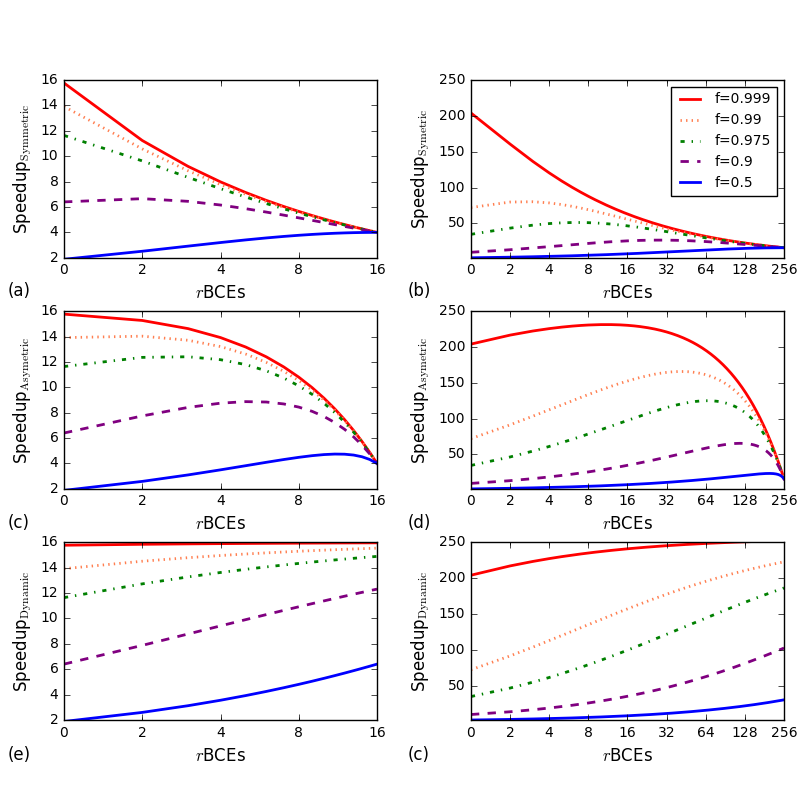
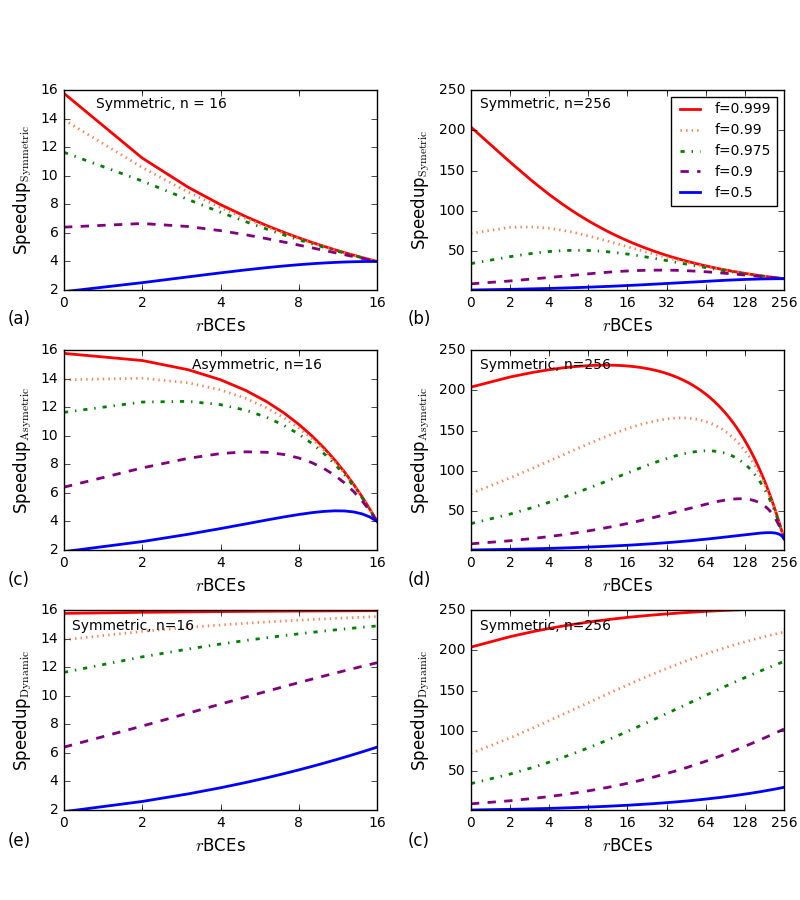
Add subplot title text
add subplot title text (use plt.text() function indead of ax.text()
function

diff --git a/python/amdahl-200807/figure2.py b/python/amdahl-200807/figure2.py
@@ -47,7 +47,7 @@ f = [0.999, 0.99, 0.975, 0.9, 0.5]
 
 fig, axs = plt.subplots(3,2)
 fig.subplots_adjust(left=0.08,right=0.98,wspace=0.3,hspace=0.3)
-fig.set_size_inches(8,8)
+fig.set_size_inches(8,9)
 
 # rBCEs, the number of total BCEs
 x = np.linspace(1, 16, num=16, endpoint=True)
@@ -74,7 +74,8 @@ ax.set_yticks([2,4,6,8,10,12,14,16])
 ax.set_yticklabels(['2','4','6','8','10','12','14','16'],fontsize='small')
 ax.set_xlabel(r'$r$BCEs')
 ax.set_ylabel(r'Speedup$_\mathrm{Symmetric}$')
-fig.text(0.01,0.63,'(a)')
+fig.text(0.12,0.88,'Symmetric, n = 16',fontsize='small')
+fig.text(0.01,0.64,'(a)')
 
 # rBCEs, the number of total BCEs
 x = np.linspace(1, 256, num=256, endpoint=True)
@@ -102,7 +103,8 @@ ax.set_yticks([50,100,150,200,250])
 ax.set_yticklabels(['50','100','150','200','250'],fontsize='small')
 ax.set_xlabel(r'$r$BCEs')
 ax.set_ylabel(r'Speedup$_\mathrm{Symetric}$')
-fig.text(0.51,0.63,'(b)')
+fig.text(0.60,0.88,'Symmetric, n=256',fontsize='small')
+fig.text(0.51,0.64,'(b)')
 
 # rBCEs, the number of total BCEs
 x = np.linspace(1, 16, num=16, endpoint=True)
@@ -129,7 +131,8 @@ ax.set_yticks([2,4,6,8,10,12,14,16])
 ax.set_yticklabels(['2','4','6','8','10','12','14','16'],fontsize='small')
 ax.set_xlabel(r'$r$BCEs')
 ax.set_ylabel(r'Speedup$_\mathrm{Asymetric}$')
-fig.text(0.01,0.34,'(c)')
+fig.text(0.24,0.59,'Asymmetric, n=16',fontsize='small')
+fig.text(0.01,0.35,'(c)')
 
 # rBCEs, the number of total BCEs
 x = np.linspace(1, 256, num=256, endpoint=True)
@@ -157,7 +160,8 @@ ax.set_yticks([50,100,150,200,250])
 ax.set_yticklabels(['50','100','150','200','250'],fontsize='small')
 ax.set_xlabel(r'$r$BCEs')
 ax.set_ylabel(r'Speedup$_\mathrm{Asymetric}$')
-fig.text(0.51,0.34,'(d)')
+fig.text(0.60,0.59,'Symmetric, n=256',fontsize='small')
+fig.text(0.51,0.35,'(d)')
 
 # rBCEs, the number of total BCEs
 x = np.linspace(1, 16, num=16, endpoint=True)
@@ -184,7 +188,8 @@ ax.set_yticks([2,4,6,8,10,12,14,16])
 ax.set_yticklabels(['2','4','6','8','10','12','14','16'],fontsize='small')
 ax.set_xlabel(r'$r$BCEs')
 ax.set_ylabel(r'Speedup$_\mathrm{Dynamic}$')
-fig.text(0.01,0.05,'(e)')
+fig.text(0.09,0.30,'Symmetric, n=16',fontsize='small')
+fig.text(0.01,0.06,'(e)')
 
 # rBCEs, the number of total BCEs
 x = np.linspace(1, 256, num=256, endpoint=True)
@@ -212,7 +217,8 @@ ax.set_yticks([50,100,150,200,250])
 ax.set_yticklabels(['50','100','150','200','250'],fontsize='small')
 ax.set_xlabel(r'$r$BCEs')
 ax.set_ylabel(r'Speedup$_\mathrm{Dynamic}$')
-fig.text(0.51,0.05,'(c)')
+fig.text(0.60,0.30,'Symmetric, n=256',fontsize='small')
+fig.text(0.51,0.06,'(c)')
 
 fig.savefig('./figure2.png')
-plt.show()
+#plt.show()
